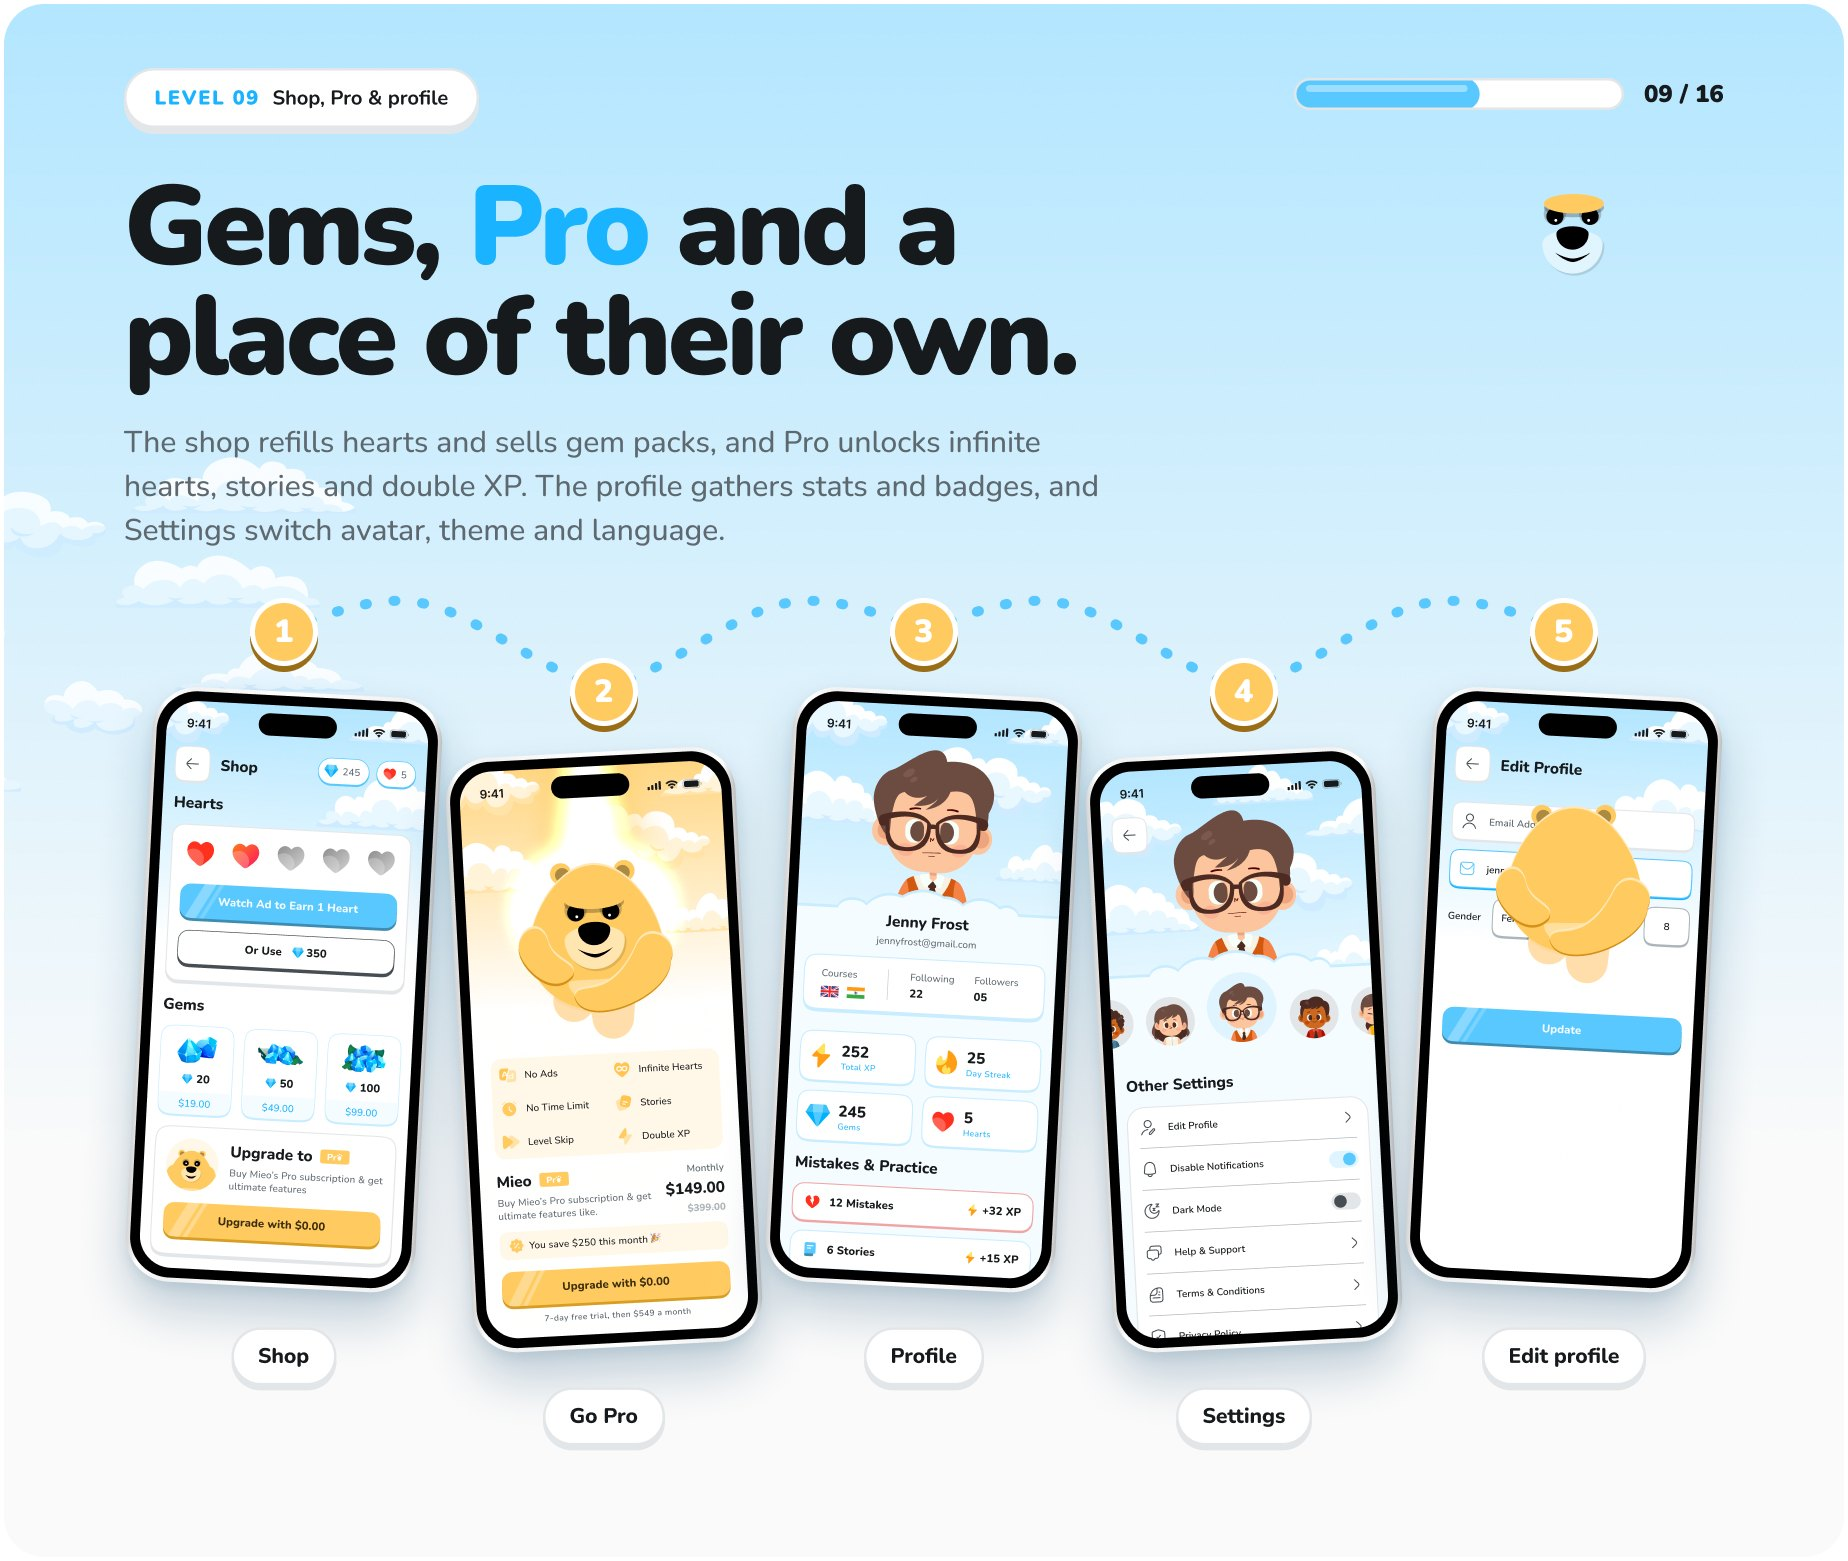
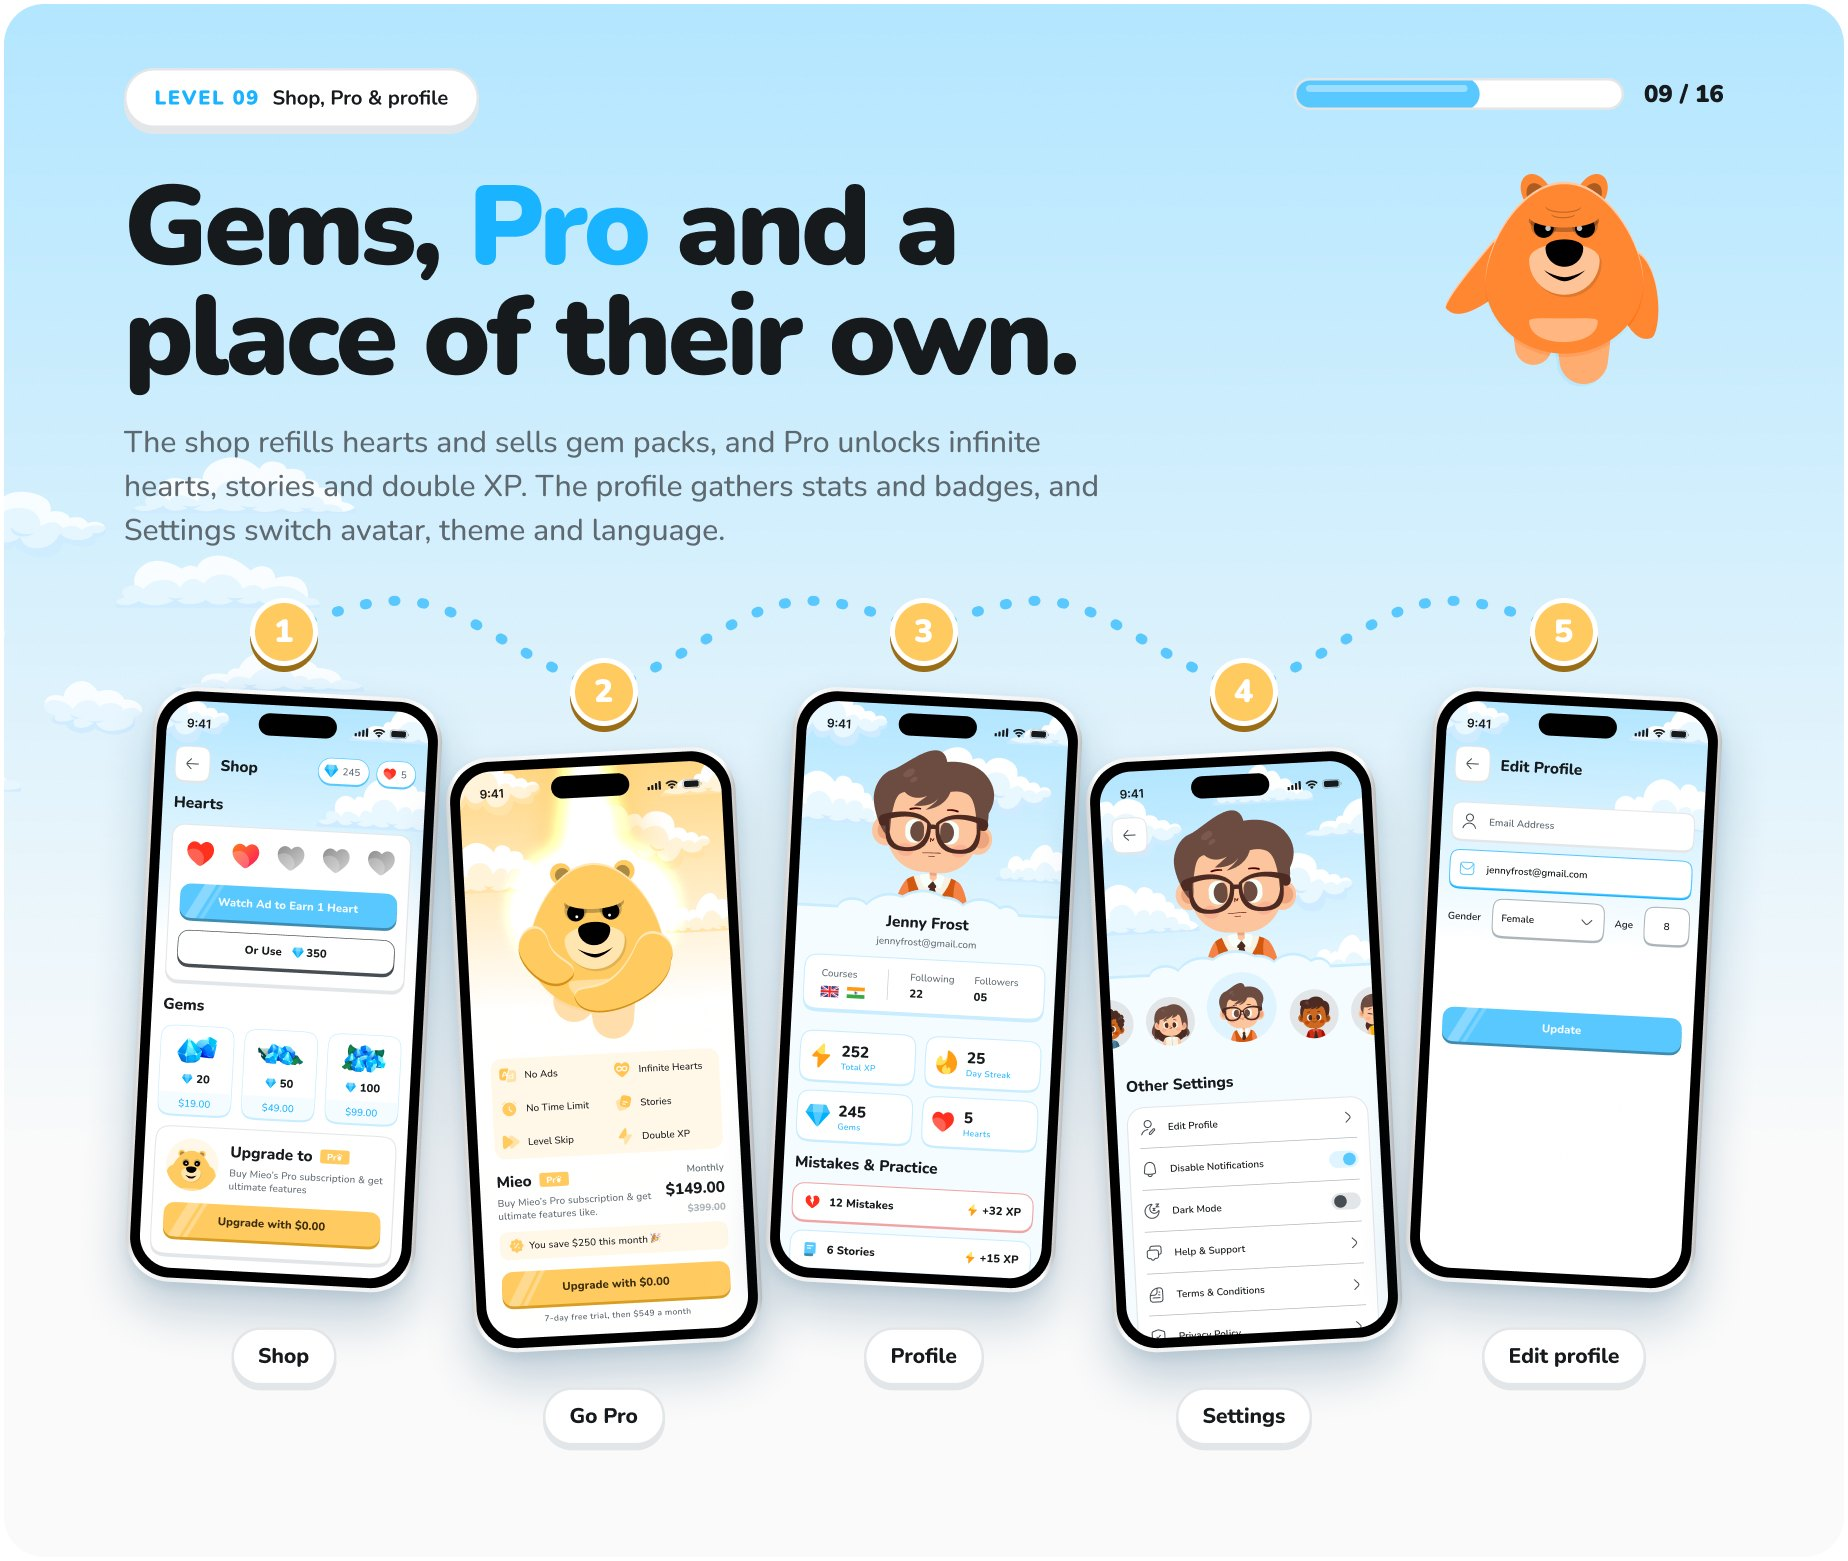
Mieo: fix Mieo on slides 08 and 09

Changed region(s): [[0.7711, 0.0922, 0.8945, 0.246], [0.8019, 0.492, 0.8945, 0.6457]]

diff --git a/README.md b/README.md
@@ -16,6 +16,6 @@ Served through jsDelivr:
 | aurenix | Aurenix AI assistant app UI kit | aurenix-v1.0.1 |
 | bondly | Bondly dating & social app UI kit | bondly-v1.0.0 |
 | musinto | Musinto music streaming app UI kit | musinto-v1.0.3 |
-| mieo | Mieo kids language-learning app UI kit (Flutter + Figma) | mieo-v1.0.0 |
+| mieo | Mieo kids language-learning app UI kit (Flutter + Figma) | mieo-v1.0.1 |
 
 No template code lives here.
